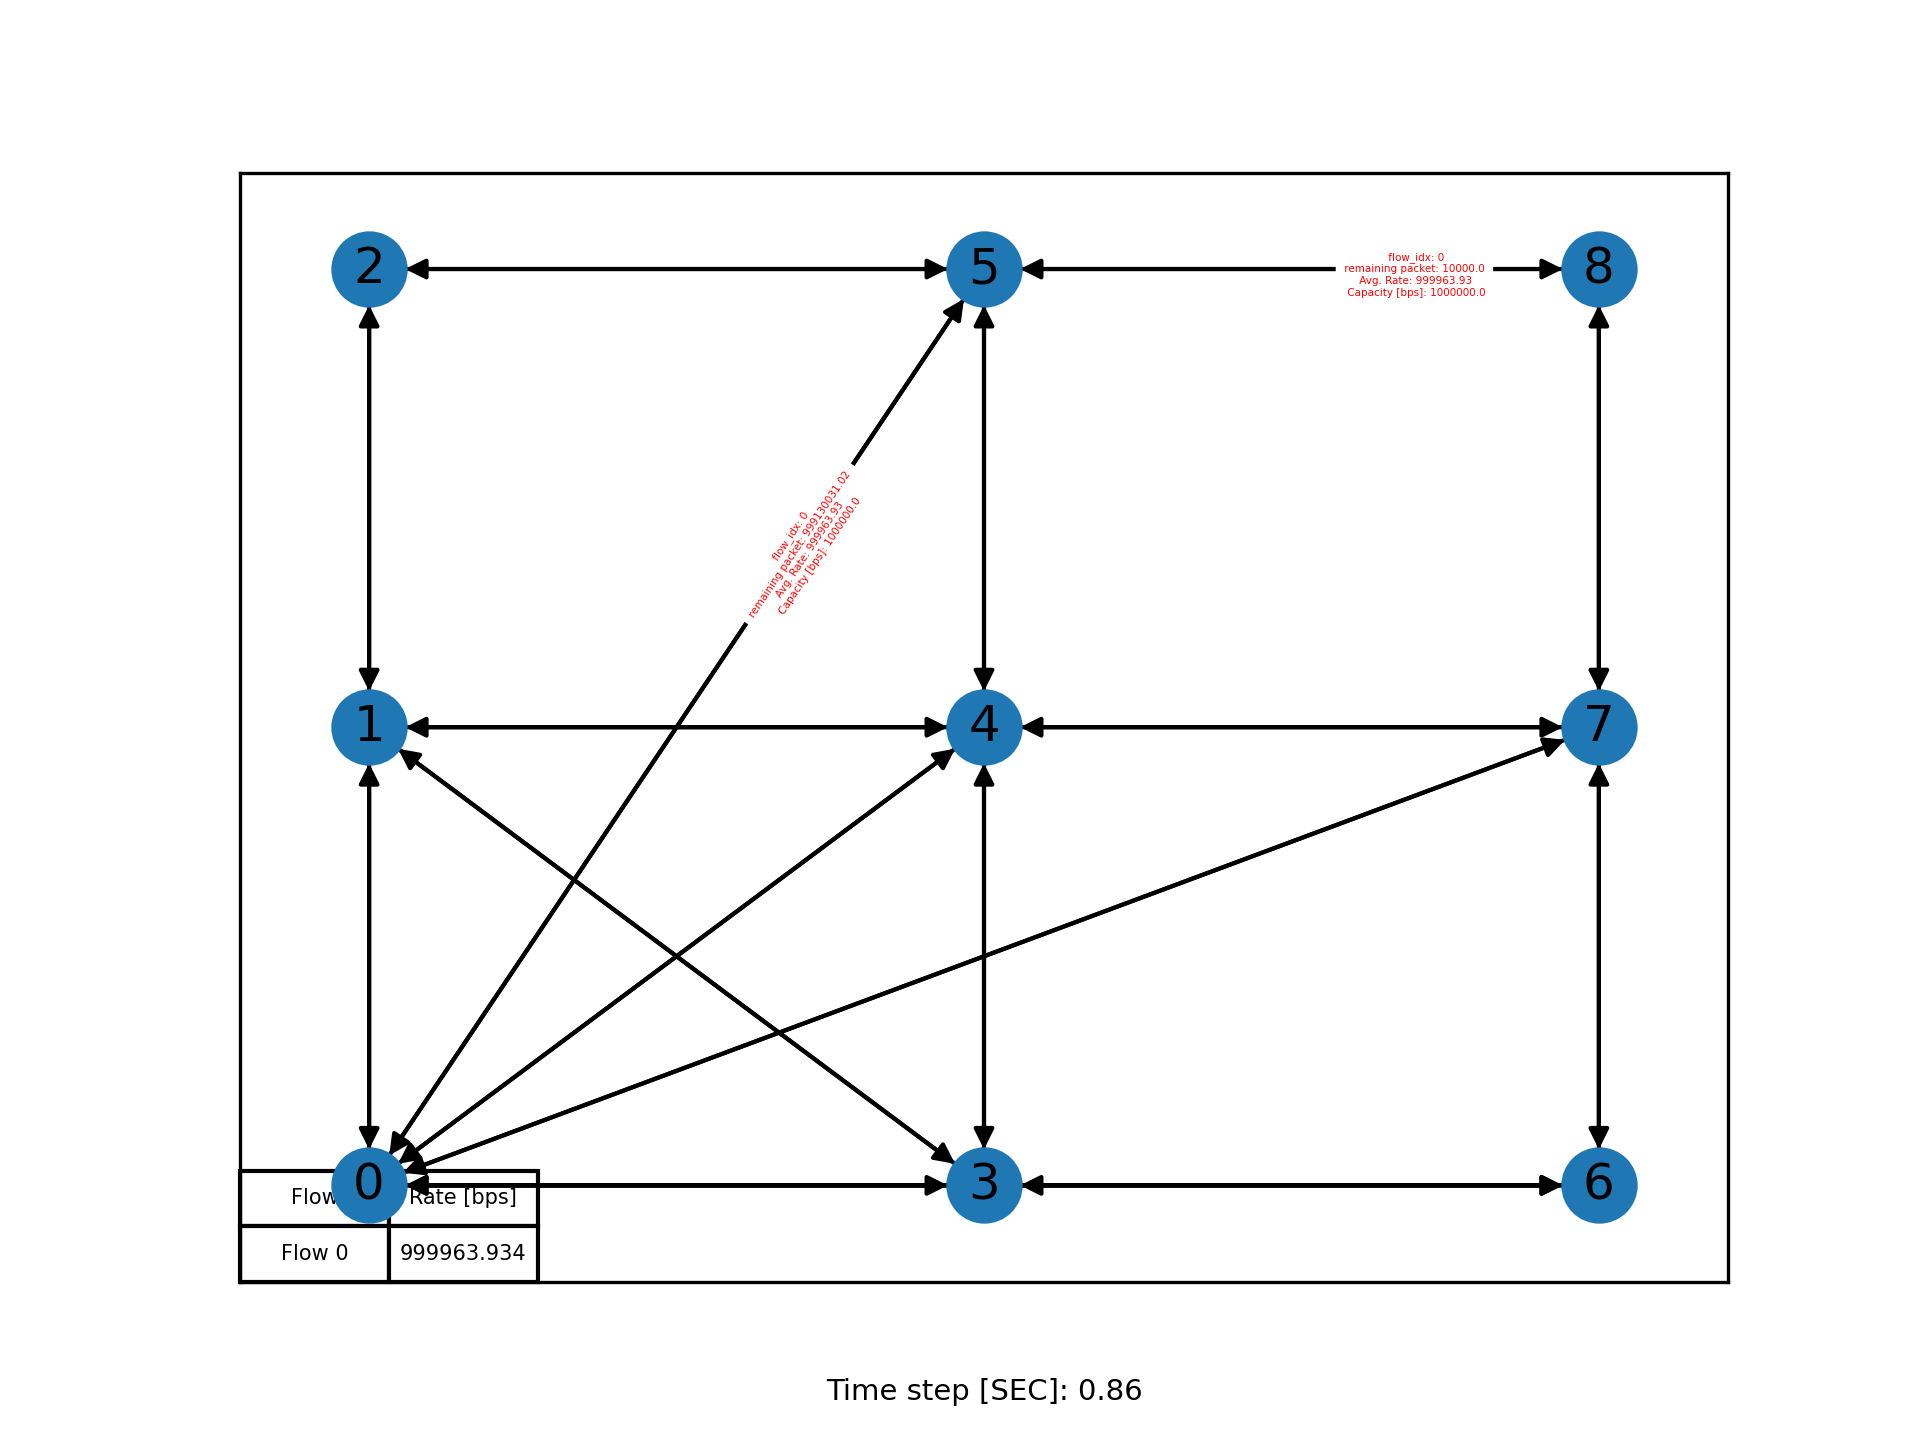
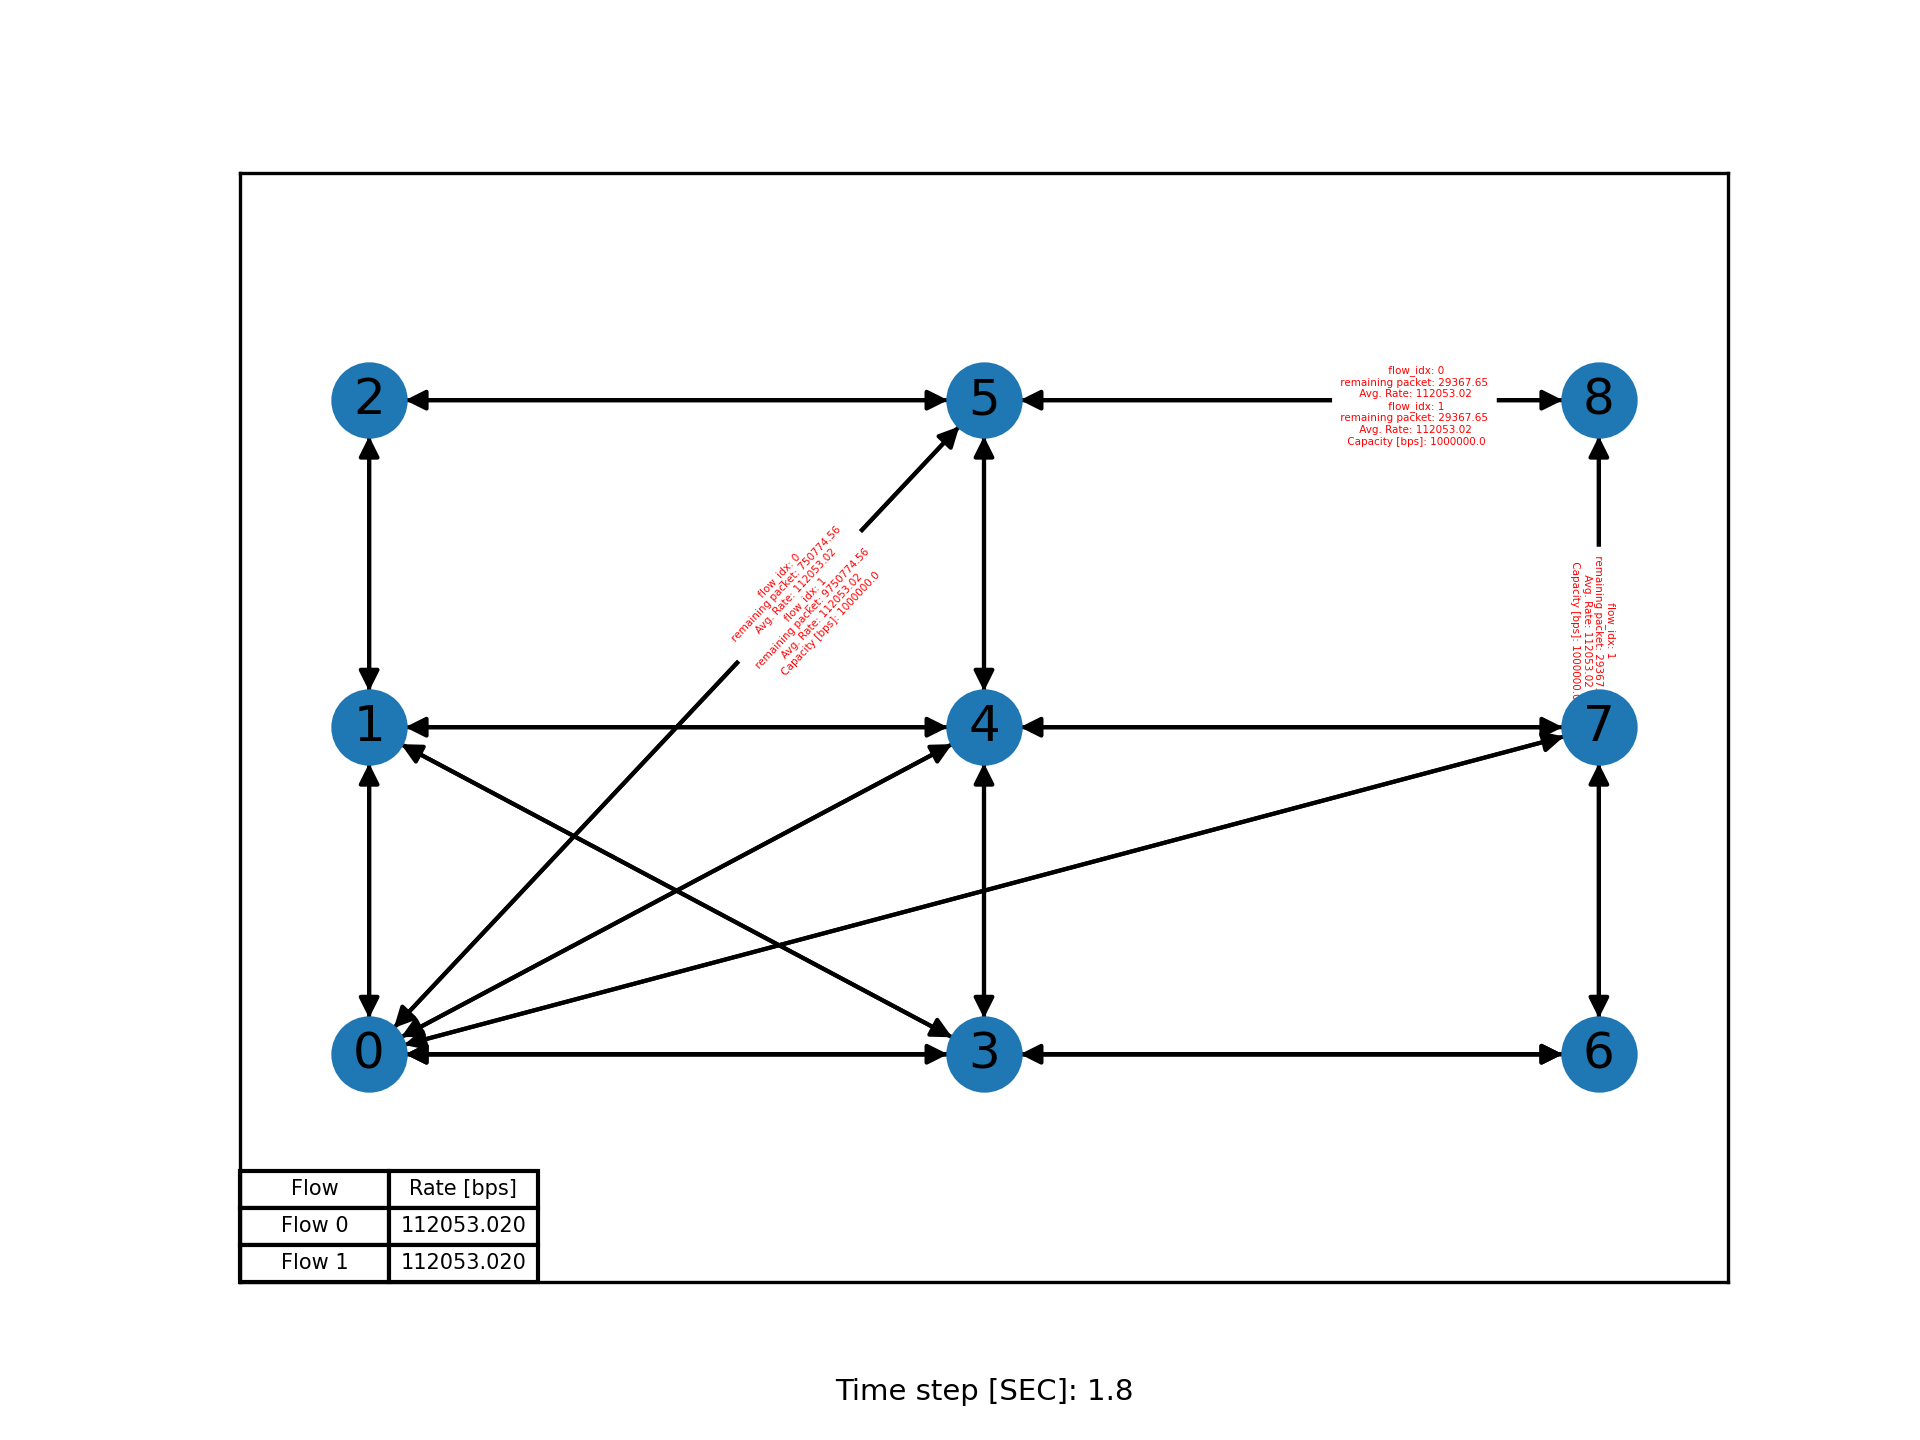
in the previous versions, for each flow, each flow had a different rate in link, so packets were accumolted in qeues, and huge residual were created and passed in each slot, now I fixed it so each flow transmit in the bottleneck rate, at each link it tranmits. residuals now vanish very quickly in th

diff --git a/DIAMOND/environment/utils.py b/DIAMOND/environment/utils.py
@@ -130,7 +130,7 @@ def get_k_paths(G: nx.Graph,
 
     return k_sp
 
-def one_link_transmission(c, packets):
+def one_link_transmission_old(c, packets):
     """one transmission on channel with capacity c for flows with packets packets
     @param c: link's capacity
     @param packets: list of flows load (packets)
@@ -156,6 +156,65 @@ def one_link_transmission(c, packets):
             r -= rem
         i += 1
     return new_packs
+
+def one_link_transmission(c_list, packets):
+
+    # one transmission on channel where each flow has its own mimimum capacity that is determined by the list of capcities recived from calc_indevidual_minimum_capacity function
+    # c is now a list
+    
+    # if sum(packets) <= c:
+    #     return [0] * len(packets)
+
+    new_packs = []
+    for p,c in zip(packets,c_list):
+        q = c 
+        r = 0         # c % count
+        new_packs.append(p - min(p, q))
+        if p > 0:
+            r += q - min(p, q)
+    i = 0
+    while r > 0 and i < len(new_packs):
+        if new_packs[i] > 0:
+            rem = min(r, new_packs[i])
+            new_packs[i] -= rem
+            r -= rem
+        i += 1
+    return new_packs
+
+
+def calc_indevidual_minimum_capacity(self,a,action_dict,current_link_capacity):
+    """
+    this function goes over all links in the flow path and calculates the minimum capacity for each flow
+    it takes into consideration that the link is shared by multiple flows
+    @param capacity_matrix: link's capacity matrix
+    @param packets: list of flows load (packets)
+    Output: a list of minimum capacity for each flow in the action (a in the loop)
+    """
+
+    # go over all actions in action_dict
+    # look for the minimum capacity for each flow in a (the current action)
+    # return a list of capcacites for the specific link 
+
+    c = [np.inf for _ in range(len(a['flows_idxs']))]
+    i=0
+    for flow_in_current_link in a['flows_idxs']: # for each link in the flow path
+        flow_idx_in_current_link = flow_in_current_link[0]
+        minumum_capacity = c[i]
+        for b in action_dict.values(): # for each link that flow_in_current_link is in the action_dict
+            if flow_in_current_link in b['flows_idxs']: # if the flow is in the link
+                count = len(b['packets']) - len([p for p in b['packets'] if p == 0]) # counts how many transmit on the same current link
+                q = current_link_capacity[self.eids[b['link']]] / count # c // count
+                if  q < minumum_capacity:
+                    minumum_capacity = q # the bottle nech of the flow
+                    
+        c[i] = minumum_capacity
+        i+=1
+
+
+
+
+    return c
+    # return None
 
 def link_queue_history_using_mac_protocol(c, packets):
     """

diff --git a/DIAMOND/environment/slotted_graph_env_power.py b/DIAMOND/environment/slotted_graph_env_power.py
@@ -8,7 +8,7 @@ import numpy as np
 from pprint import pprint
 from collections import Counter
 import warnings
-from environment.utils import get_k_paths, one_link_transmission, plot_graph, init_seed
+from environment.utils import * #get_k_paths, one_link_transmission, plot_graph, init_seed
 from names_generator import generate_name
 
 # import torch
@@ -408,7 +408,10 @@ class SlottedGraphEnvPower:
             
 
             # share link's resource
-            remaining_packets = one_link_transmission(capacity, a['packets'])  # packets remained at transmit for the next time-step over (u, v)
+            c = calc_indevidual_minimum_capacity(self,a,action_dict,self.current_link_capacity)  # c is a list of minmum capacity for each flow (in their oreder)
+            remaining_packets = one_link_transmission(c, a['packets'])                  # remaining packets is a list of remining packets for each flow (in their oreder)
+
+            # remaining_packets = one_link_transmission(capacity, a['packets'])  # packets remained at transmit for the next time-step over (u, v)
             advanced_packets = [p-r for p, r in zip(a['packets'], remaining_packets)]  # packets to transmit over (v, w)
 
             # flows advancing to the next hop
@@ -589,7 +592,7 @@ class SlottedGraphEnvPower:
 
         self.total_time_stemp_in_single_slot = 0
         metadata = []
-        if self.render_mode: 
+        if self.render_mode:
             self.show_graph(active_links, self.total_time_stemp_in_single_slot, 0 ,self.total_time_stemp_in_single_slot)                   
     
         while True:
@@ -597,7 +600,7 @@ class SlottedGraphEnvPower:
             if self.total_time_stemp_in_single_slot < self.slot_duration: 
                 active_links, hop_metadata = self._transmit_singe_timestep(active_links, self.total_time_stemp_in_single_slot)
                 
-                if self.render_mode: 
+                if self.render_mode and len(self.allocated) == len(self.flows): # plot rate only when all flows are allocated
                     plot_rate = 1 if len(self.allocated) == len(self.flows) else 0
                     self.show_graph(active_links, self.total_time_stemp_in_single_slot, plot_rate ,self.total_time_stemp_in_single_slot)
                 

diff --git a/DIAMOND/test/inference_vs_competitors_simple.py b/DIAMOND/test/inference_vs_competitors_simple.py
@@ -26,9 +26,9 @@ if __name__ == "__main__":
     reward_weights = dict(rate_weight=0.5, delay_weight=0, interference_weight=0, capacity_reduction_weight=0)
 
     # ------------------------------------------------------------------------
-    Simulation_Time_Resolution = 1e-2       # miliseconds (i.e. each time step is a milisecond - this is the duration of each time step in [SEC])
+    Simulation_Time_Resolution = 1e-1       # miliseconds (i.e. each time step is a milisecond - this is the duration of each time step in [SEC])
     BW_value_in_Hertz = 1e6                   # wanted BW in Hertz
-    slot_duration = 8                     # [SEC] 
+    slot_duration = 15                     # [SEC] 
     Tot_num_of_timeslots = 3               # [num of time slots]
     #------------------------------------------------------------------------
 
@@ -111,7 +111,7 @@ if __name__ == "__main__":
                                         direction = 'minimize',
                                         slot_duration = int(slot_duration / Simulation_Time_Resolution),          # [in SEC ]
                                         Tot_num_of_timeslots = Tot_num_of_timeslots,         # [num of time slots]
-                                        render_mode = False,
+                                        render_mode = True,
                                         trx_power_mode='gain',
                                         channel_gain = 1,
                                         # channel_manual_gain = [100,200,3,400,500,600],
